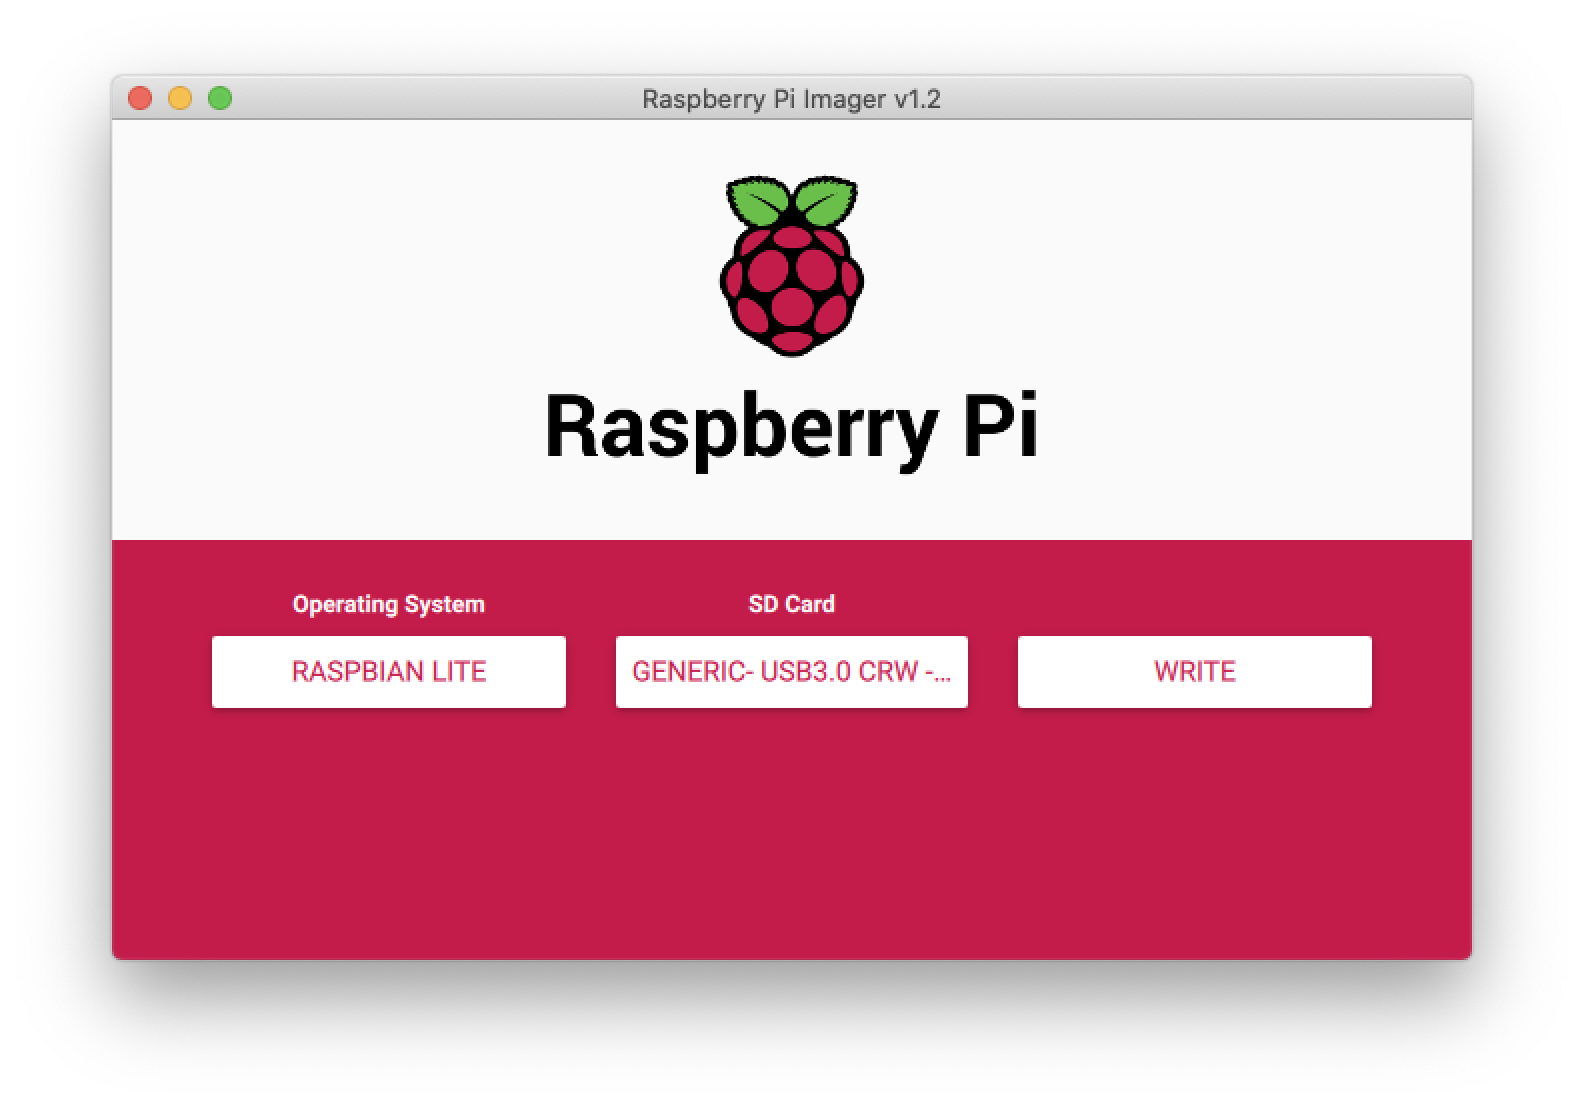
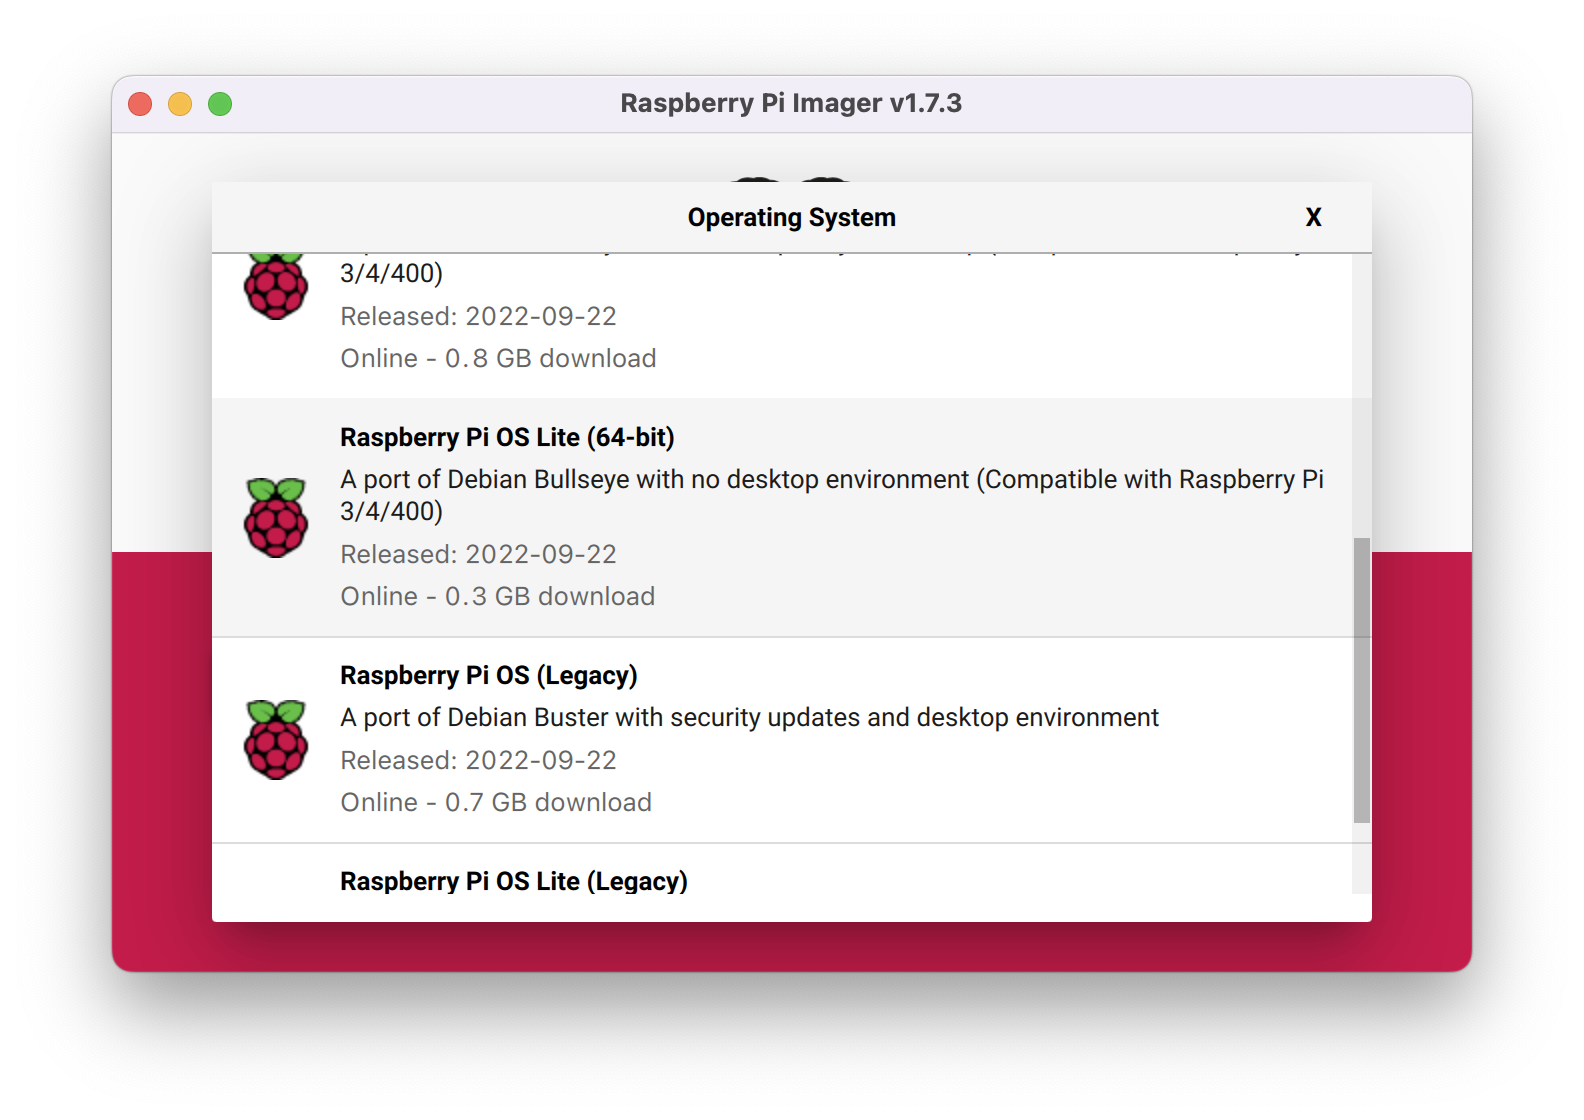
Update README with new Pi Imager instructions
New screenshots and details on the Raspberry Pi Imager software.

diff --git a/README.md b/README.md
@@ -52,11 +52,19 @@ From the [official Raspberry Pi Downloads page](https://www.raspberrypi.org/down
 
 #### Step 2: Write the Image to Your SD Card
 
-Next, open the Raspberry Pi Imager app, insert the SD card into your computer, choose an operating system to install (again, I stick with Raspbian Lite for a headless Raspberry Pi), choose your SD card, and click the **WRITE** button. The process takes just a few minutes to move the files, and maybe a minute or two more to verify them.
+Next, open the Raspberry Pi Imager app and insert the microSD card into your computer. then choose an operating system to install. We'll stick with Raspbian Lite for a headless Raspberry Pi in this case (you'll want the 64-bit version if you're using a Raspberry Pi 3, 4, or 400). Then choose your microSD card from the second button's modal, at which point the **WRITE** button will be available.
 
 ![Raspberry Pi Imager](screenshots/raspberry-pi-imager.png)
 
-And that's it! Remove the SD card from your computer when prompted, and insert it into your Raspberry Pi before booting it up to a fresh install of Raspbian.
+Before writing the OS to the microSD card, click the gear icon in the bottom right of the window to include advanced settings for your OS. You'll first be prompted:
+
+`Would you like to prefill the wifi password from the system keychain?`
+
+I declined this option as I'll be adding this Raspberry Pi to a wired network. Next, check out the Advanced Options. From here you can enable SSH, set a username and password, configure the wireless LAN, and add locale settings. This will speed up your OS setup time, but all of these options can be done from the Raspberry Pi Configuration Tool later as well.
+
+![Advanced Options](screenshots/pi-imager-advanced-options.png)
+
+Save these options (either for this session only, or to always use) and then click the **WRITE**. The process takes just a few minutes to move the files, and maybe a minute or two more to verify them. And that's it! Remove the SD card from your computer when prompted, and insert it into your Raspberry Pi before booting it up to a fresh install of Raspbian.
 
 ### Installing Raspbian with N00BS
 
